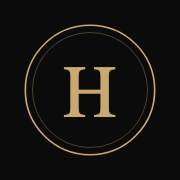
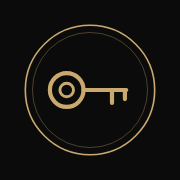
Renommage : Hyppo Patrimoine devient Sésame
- Nouveau nom dans l'appli, le manifeste et l'écran d'accueil de l'iPhone.
- Nouvel emblème : une clé ancienne dans un double cercle or champagne
  (icônes PWA, icône Apple, favicon et emblème de l'appli).
- Publication sous /sesame/ (dépôt renommé).
- Identifiants internes inchangés : les sauvegardes existantes restent importables.

Changed region(s): [[0.25, 0.3611, 0.7222, 0.6667]]

diff --git a/src/engine/ics.ts b/src/engine/ics.ts
@@ -50,7 +50,7 @@ export function monthlyReviewIcs(opts: MonthlyReminder): string {
   const lines = [
     'BEGIN:VCALENDAR',
     'VERSION:2.0',
-    'PRODID:-//Hyppo Patrimoine//Revue mensuelle//FR',
+    'PRODID:-//Sésame//Revue mensuelle//FR',
     'CALSCALE:GREGORIAN',
     'METHOD:PUBLISH',
     'BEGIN:VTIMEZONE',
@@ -76,7 +76,7 @@ export function monthlyReviewIcs(opts: MonthlyReminder): string {
     `DTSTART;TZID=Europe/Paris:${start}`,
     `DTEND;TZID=Europe/Paris:${end}`,
     `RRULE:FREQ=MONTHLY;BYMONTHDAY=${opts.day}`,
-    `SUMMARY:${escape('Revue mensuelle · Hyppo Patrimoine')}`,
+    `SUMMARY:${escape('Revue mensuelle · Sésame')}`,
     `DESCRIPTION:${escape('Dix minutes pour comparer le prévu au réel, décider des reliquats et ajuster le mois suivant.')}`,
     ...(opts.url ? [`URL:${opts.url}`] : []),
     'BEGIN:VALARM',
@@ -167,7 +167,7 @@ export function subscriptionsIcs(
   const lines = [
     'BEGIN:VCALENDAR',
     'VERSION:2.0',
-    'PRODID:-//Hyppo Patrimoine//Abonnements//FR',
+    'PRODID:-//Sésame//Abonnements//FR',
     'CALSCALE:GREGORIAN',
     'METHOD:PUBLISH',
     'X-WR-CALNAME:Abonnements',

diff --git a/src/ui/Monogram.tsx b/src/ui/Monogram.tsx
@@ -1,20 +1,14 @@
-/** Monogramme « H » : fin cercle doré et initiale en serif. */
+/** Emblème de Sésame : une clé ancienne dans un double cercle doré. */
 export function Monogram({ size = 48 }: { size?: number }) {
   return (
     <svg width={size} height={size} viewBox="0 0 64 64" aria-hidden="true">
       <circle cx="32" cy="32" r="30.5" fill="none" stroke="var(--gold)" strokeWidth="1" />
       <circle cx="32" cy="32" r="26.5" fill="none" stroke="var(--gold)" strokeOpacity="0.35" strokeWidth="0.75" />
-      <text
-        x="32"
-        y="42.5"
-        textAnchor="middle"
-        fontFamily="Cormorant Garamond, serif"
-        fontSize="30"
-        fontWeight="500"
-        fill="var(--gold)"
-      >
-        H
-      </text>
+      <g fill="none" stroke="var(--gold)" strokeWidth="1.6" strokeLinecap="round" strokeLinejoin="round" transform="translate(31 33) scale(1.22) translate(-31 -33)">
+        <circle cx="23" cy="32" r="6.5" />
+        <circle cx="23" cy="32" r="2.6" strokeWidth="1.2" />
+        <path d="M29.5 32H46 M40.5 32v5 M45.5 32v3.5" />
+      </g>
     </svg>
   );
 }

diff --git a/index.html b/index.html
@@ -3,14 +3,14 @@
   <head>
     <meta charset="UTF-8" />
     <meta name="viewport" content="width=device-width, initial-scale=1, viewport-fit=cover" />
-    <title>Hyppo Patrimoine</title>
+    <title>Sésame</title>
     <meta name="description" content="Le cockpit de ta vie financière : chaque euro reçu a un rôle, décidé par tes règles." />
     <meta name="theme-color" content="#0B0B0C" />
     <meta name="color-scheme" content="dark light" />
     <meta name="apple-mobile-web-app-capable" content="yes" />
     <meta name="mobile-web-app-capable" content="yes" />
     <meta name="apple-mobile-web-app-status-bar-style" content="black-translucent" />
-    <meta name="apple-mobile-web-app-title" content="Hyppo" />
+    <meta name="apple-mobile-web-app-title" content="Sésame" />
     <meta name="format-detection" content="telephone=no" />
     <link rel="icon" href="/favicon.svg" type="image/svg+xml" />
     <link rel="apple-touch-icon" href="/apple-touch-icon.png" />

diff --git a/src/db/actions.ts b/src/db/actions.ts
@@ -546,6 +546,7 @@ export async function deleteBankMonth(month: Month): Promise<void> {
 export const BACKUP_VERSION = 1;
 
 export interface Backup {
+  /** Identifiant interne inchangé pour rester compatible avec les anciennes sauvegardes. */
   app: 'hyppo-patrimoine';
   version: number;
   exportedAt: string;
@@ -565,7 +566,7 @@ export async function exportBackup(): Promise<Backup> {
 export function validateBackup(raw: unknown): Backup {
   const b = raw as Partial<Backup>;
   if (!b || typeof b !== 'object' || b.app !== 'hyppo-patrimoine') {
-    throw new Error("Ce fichier n'est pas une sauvegarde Hyppo Patrimoine.");
+    throw new Error("Ce fichier n'est pas une sauvegarde Sésame.");
   }
   if (typeof b.version !== 'number' || b.version > BACKUP_VERSION) {
     throw new Error('Cette sauvegarde vient d’une version plus récente de l’appli.');

diff --git a/e2e/smoke.spec.ts b/e2e/smoke.spec.ts
@@ -1,6 +1,6 @@
 /*
  * Tests publics de bout en bout, sur les valeurs d'EXEMPLE de l'assistant (aucune donnée personnelle).
- * L'appli est servie sous /hyppo-patrimoine/, comme sur GitHub Pages.
+ * L'appli est servie sous /sesame/, comme sur GitHub Pages.
  */
 import AxeBuilder from '@axe-core/playwright';
 import { expect, test, type Page } from '@playwright/test';
@@ -36,7 +36,7 @@ test.beforeAll(async ({ browser }) => {
 
 test('assistant du premier lancement', async () => {
   await page.goto('./');
-  await expect(page.getByRole('heading', { name: 'Hyppo Patrimoine' })).toBeVisible();
+  await expect(page.getByRole('heading', { name: 'Sésame' })).toBeVisible();
   await page.getByRole('button', { name: 'Commencer' }).click();
   await tapPin(page);
   await expect(page.getByRole('heading', { name: 'Confirme ton code' })).toBeVisible();

diff --git a/vite.config.ts b/vite.config.ts
@@ -3,8 +3,8 @@ import tailwindcss from '@tailwindcss/vite';
 import { VitePWA } from 'vite-plugin-pwa';
 import { defineConfig } from 'vitest/config';
 
-/** Publication sur GitHub Pages : https://<pseudo>.github.io/hyppo-patrimoine/ */
-const BASE = '/hyppo-patrimoine/';
+/** Publication sur GitHub Pages : https://<pseudo>.github.io/sesame/ */
+const BASE = '/sesame/';
 
 export default defineConfig({
   base: BASE,
@@ -18,8 +18,8 @@ export default defineConfig({
       includeAssets: ['favicon.svg', 'apple-touch-icon.png'],
       manifest: {
         id: BASE,
-        name: 'Hyppo Patrimoine',
-        short_name: 'Hyppo',
+        name: 'Sésame',
+        short_name: 'Sésame',
         description: 'Le cockpit de ta vie financière : chaque euro reçu a un rôle, décidé par tes règles.',
         lang: 'fr',
         dir: 'ltr',

diff --git a/src/screens/settings/Settings.tsx b/src/screens/settings/Settings.tsx
@@ -68,7 +68,7 @@ function Index() {
         <Row icon="download" title="Données" subtitle={s.lastBackupAt ? `Dernière sauvegarde le ${formatDate(s.lastBackupAt, 'long')}` : 'Jamais sauvegardé'} onClick={() => navigate('/reglages/donnees')} />
         <Row icon="file" title="Import Revolut" subtitle="Relevé CSV, catégorisation automatique" onClick={() => navigate('/import')} />
       </Card>
-      <p className="mt-10 text-center text-xs text-faint">Hyppo Patrimoine · données stockées uniquement sur cet appareil</p>
+      <p className="mt-10 text-center text-xs text-faint">Sésame · données stockées uniquement sur cet appareil</p>
     </Page>
   );
 }

diff --git a/playwright.config.ts b/playwright.config.ts
@@ -10,7 +10,7 @@ export default defineConfig({
   workers: 1,
   reporter: [['list']],
   use: {
-    baseURL: 'http://localhost:4173/hyppo-patrimoine/',
+    baseURL: 'http://localhost:4173/sesame/',
     serviceWorkers: 'block',
     trace: 'retain-on-failure',
     locale: 'fr-FR',
@@ -19,7 +19,7 @@ export default defineConfig({
   projects: [{ name: 'iPhone 14', use: { ...devices['iPhone 14'] } }],
   webServer: {
     command: 'node node_modules/vite/bin/vite.js preview --port 4173 --strictPort',
-    url: 'http://localhost:4173/hyppo-patrimoine/',
+    url: 'http://localhost:4173/sesame/',
     reuseExistingServer: true,
   },
 });

diff --git a/src/screens/Retrospective.tsx b/src/screens/Retrospective.tsx
@@ -49,7 +49,7 @@ export default function Retrospective({ year }: { year: number }) {
       ) : (
         <article className="card overflow-hidden p-6 md:p-8">
           <header className="text-center">
-            <p className="eyebrow">Hyppo Patrimoine · Rapport de gestion</p>
+            <p className="eyebrow">Sésame · Rapport de gestion</p>
             <p className="mt-4 font-serif text-[4.5rem] leading-none text-gold">{year}</p>
             <GoldLine className="mx-auto mt-4 max-w-[12rem]" />
             <p className="mx-auto mt-4 max-w-sm font-serif text-lg leading-snug text-muted italic">

diff --git a/src/screens/Onboarding.tsx b/src/screens/Onboarding.tsx
@@ -52,7 +52,7 @@ function Welcome({ onNext }: { onNext: () => void }) {
           <Monogram size={72} />
         </div>
         <p className="eyebrow mt-8">Bienvenue</p>
-        <h1 className="mt-3 font-serif text-[2.75rem] leading-[1.05] text-ink">Hyppo Patrimoine</h1>
+        <h1 className="mt-3 font-serif text-[2.75rem] leading-[1.05] text-ink">Sésame</h1>
         <p className="mx-auto mt-4 max-w-xs text-[0.9375rem] leading-relaxed text-muted">
           Le cockpit de ta vie financière. Sobre, précis, et toujours de ton côté.
         </p>

diff --git a/src/state/backup.ts b/src/state/backup.ts
@@ -5,5 +5,5 @@ import { downloadFile } from './files';
 /** Télécharge une sauvegarde JSON complète et note la date de sauvegarde. */
 export async function downloadBackup(): Promise<void> {
   const backup = await exportBackup();
-  downloadFile(`hyppo-patrimoine-${toISODate(new Date())}.json`, JSON.stringify(backup, null, 2), 'application/json');
+  downloadFile(`sesame-${toISODate(new Date())}.json`, JSON.stringify(backup, null, 2), 'application/json');
 }

diff --git a/src/state/files.ts b/src/state/files.ts
@@ -15,5 +15,5 @@ export function readFileText(file: File): Promise<string> {
   return file.text();
 }
 
-/** Adresse de l'appli (avec son chemin de base, ex. `/hyppo-patrimoine/`). */
+/** Adresse de l'appli (avec son chemin de base, ex. `/sesame/`). */
 export const appUrl = (): string => new URL(import.meta.env.BASE_URL, window.location.origin).href;
